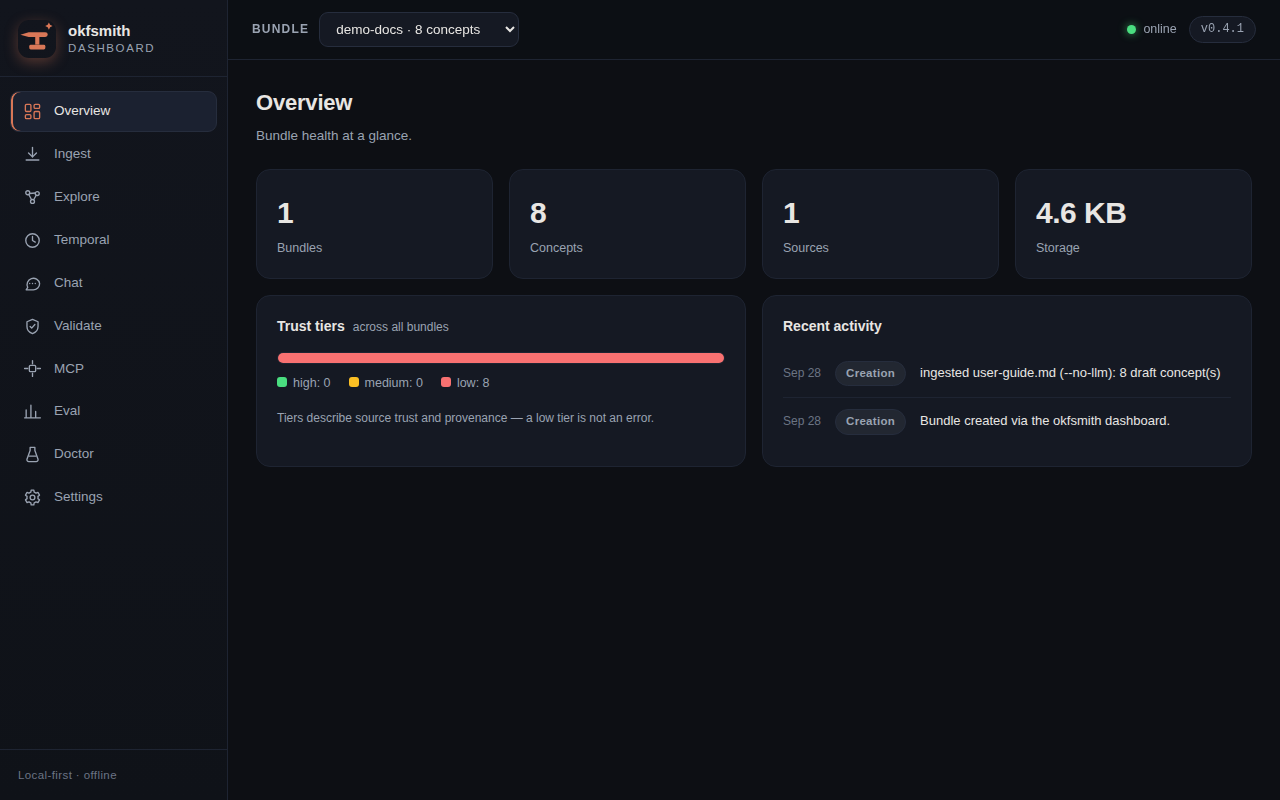
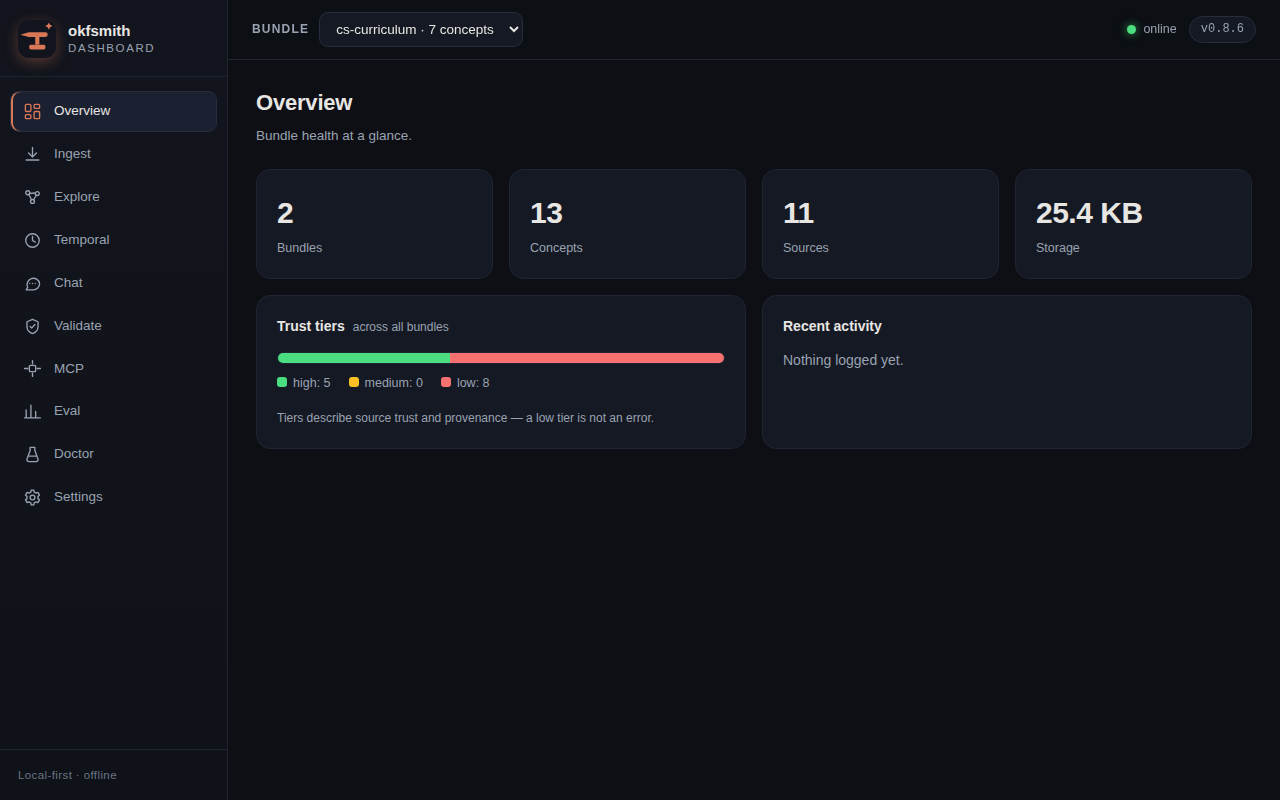
docs(site): refresh dashboard screenshot to v0.8.6, fix stale v0.4.1 caption
Gemini review catch (verified): the site figure caption claimed the
screenshot showed okfsmith v0.4.1; the PNG itself was from v0.5.0.
Regenerated the overview screenshot from the current 0.8.6 dashboard
(1280x800, headless Chromium, real example bundle) and updated the
caption to the version actually shown.

diff --git a/docs/site/index.html b/docs/site/index.html
@@ -607,7 +607,7 @@ $ okfsmith graph ./kb --format html
         <div class="split wide-left" style="margin-top:40px">
           <figure class="platefig">
             <img class="plate" src="../assets/img/dashboard-overview.png" alt="okfsmith web dashboard: knowledge overview with bundle stats, ingest, graph, chat and validation">
-            <figcaption>The dashboard, served from your own machine. The screenshot shows okfsmith v0.4.1; the current release is below.</figcaption>
+            <figcaption>The dashboard, served from your own machine. The screenshot shows okfsmith v0.8.6.</figcaption>
           </figure>
           <div>
             <div class="chatlabel">EXAMPLE EXCHANGE, OKFSMITH CHAT</div>
